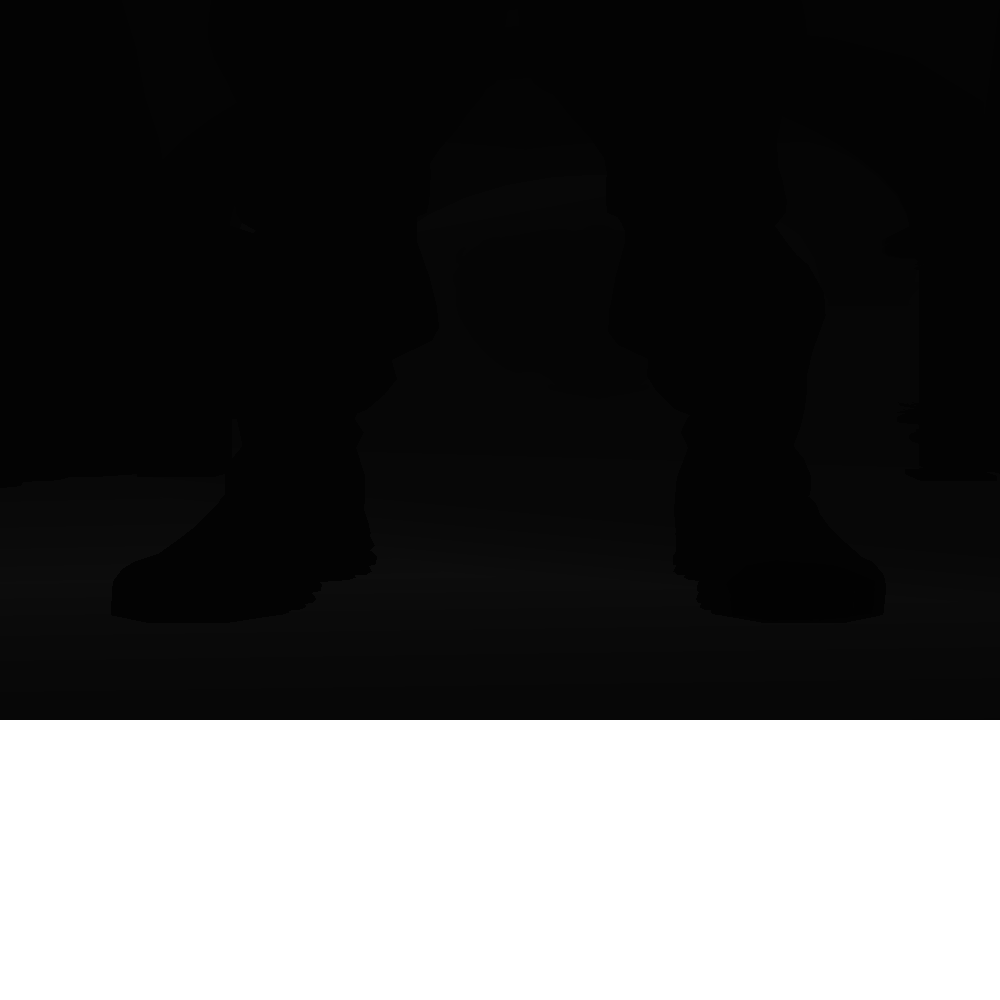
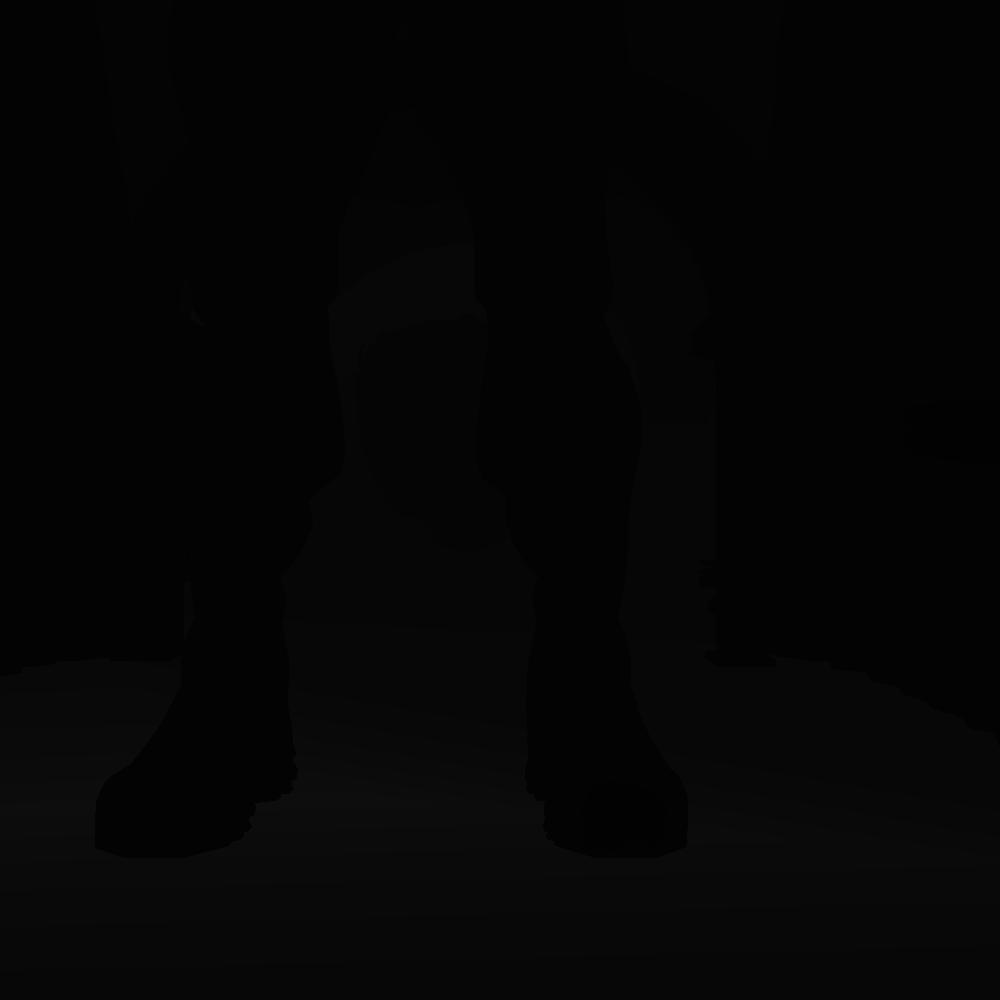
shadow viewport fixed

Changed region(s): [[0.0, 0.713, 1.0, 1.0]]

diff --git a/hw3d/Viewport.h b/hw3d/Viewport.h
@@ -8,10 +8,14 @@ namespace Bind
 	class Viewport : public Bindable
 	{
 	public:
-		Viewport( Graphics& gfx,float maxDepth = 1.0f )
+		Viewport( Graphics& gfx )
+			:
+			Viewport( gfx,(float)gfx.GetWidth(),(float)gfx.GetHeight() )
+		{}
+		Viewport( Graphics& gfx,float width,float height )
 		{
-			vp.Width = (float)gfx.GetWidth();
-			vp.Height = (float)gfx.GetHeight();
+			vp.Width = width;
+			vp.Height = height;
 			vp.MinDepth = 0.0f;
 			vp.MaxDepth = 1.0f;
 			vp.TopLeftX = 0.0f;

diff --git a/hw3d/ShadowMappingPass.h b/hw3d/ShadowMappingPass.h
@@ -36,7 +36,7 @@ namespace Rgph
 			AddBind( NullPixelShader::Resolve( gfx ) );
 			AddBind( Stencil::Resolve( gfx,Stencil::Mode::Off ) );
 			AddBind( Blender::Resolve( gfx,false ) );
-			AddBind( std::make_shared<Viewport>( gfx,100.0f ) );
+			AddBind( std::make_shared<Viewport>( gfx,(float)size,(float)size ) );
 			AddBind( std::make_shared<Bind::ShadowRasterizer>( gfx,50,2.0f,0.1f ) );
 			RegisterSource( DirectBindableSource<Bind::DepthCubeTexture>::Make( "map",pDepthCube ) );
 
